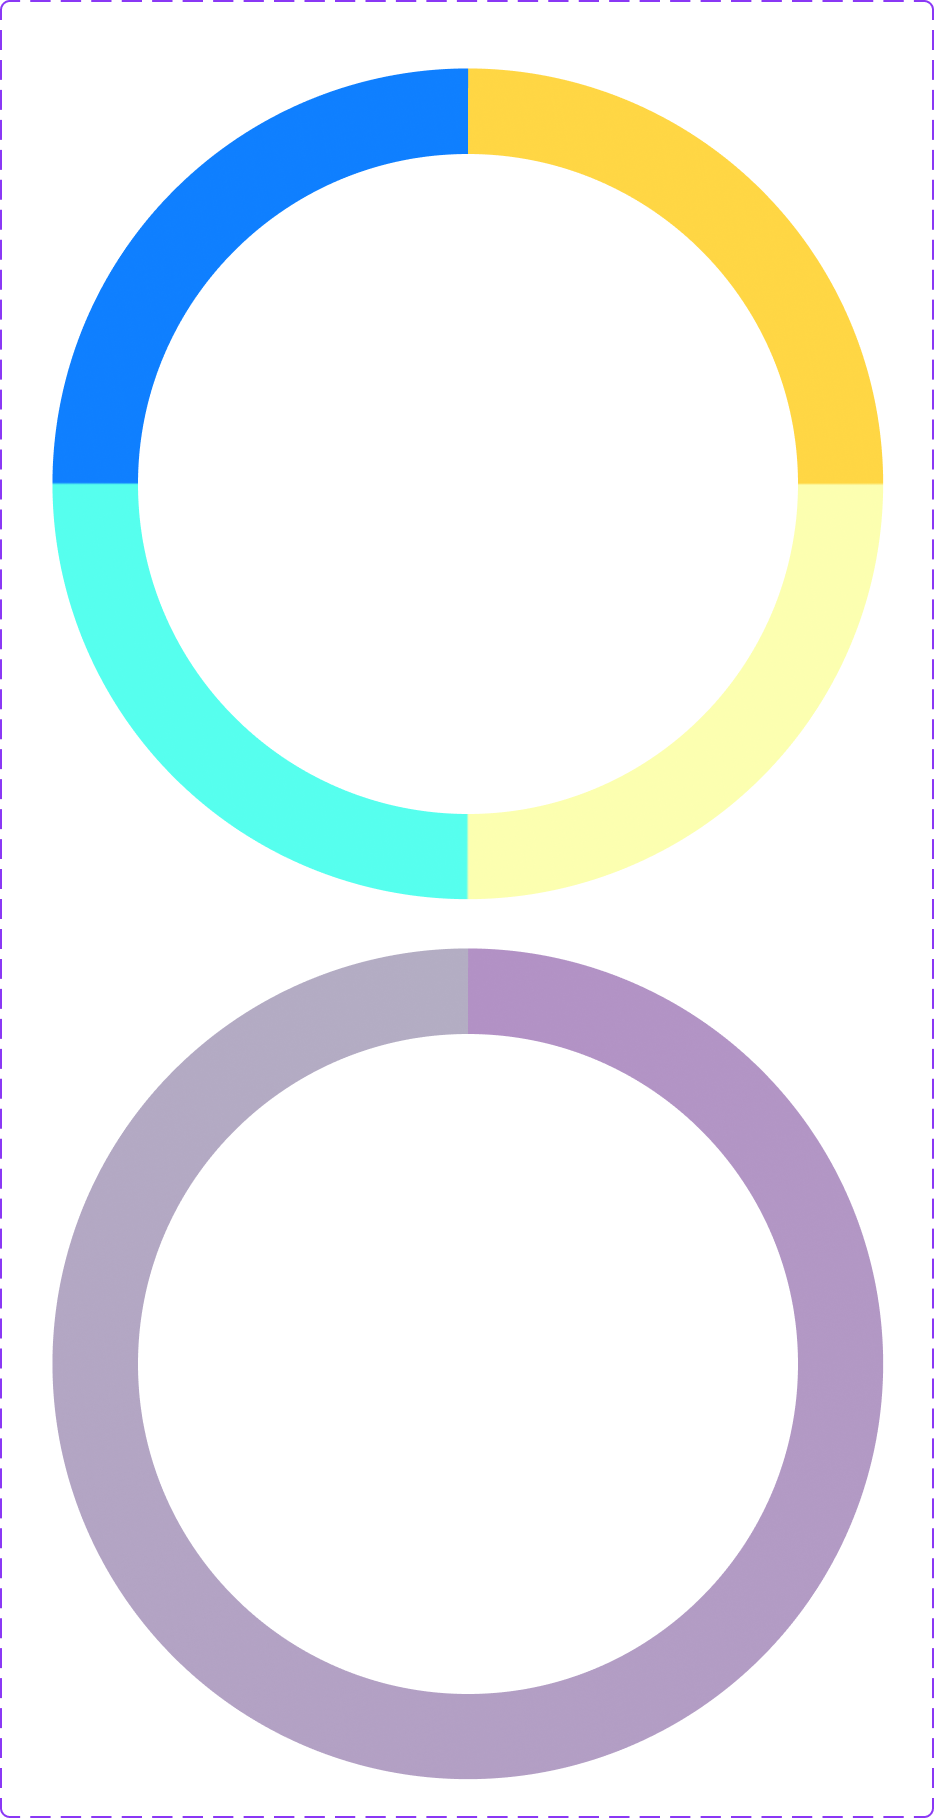
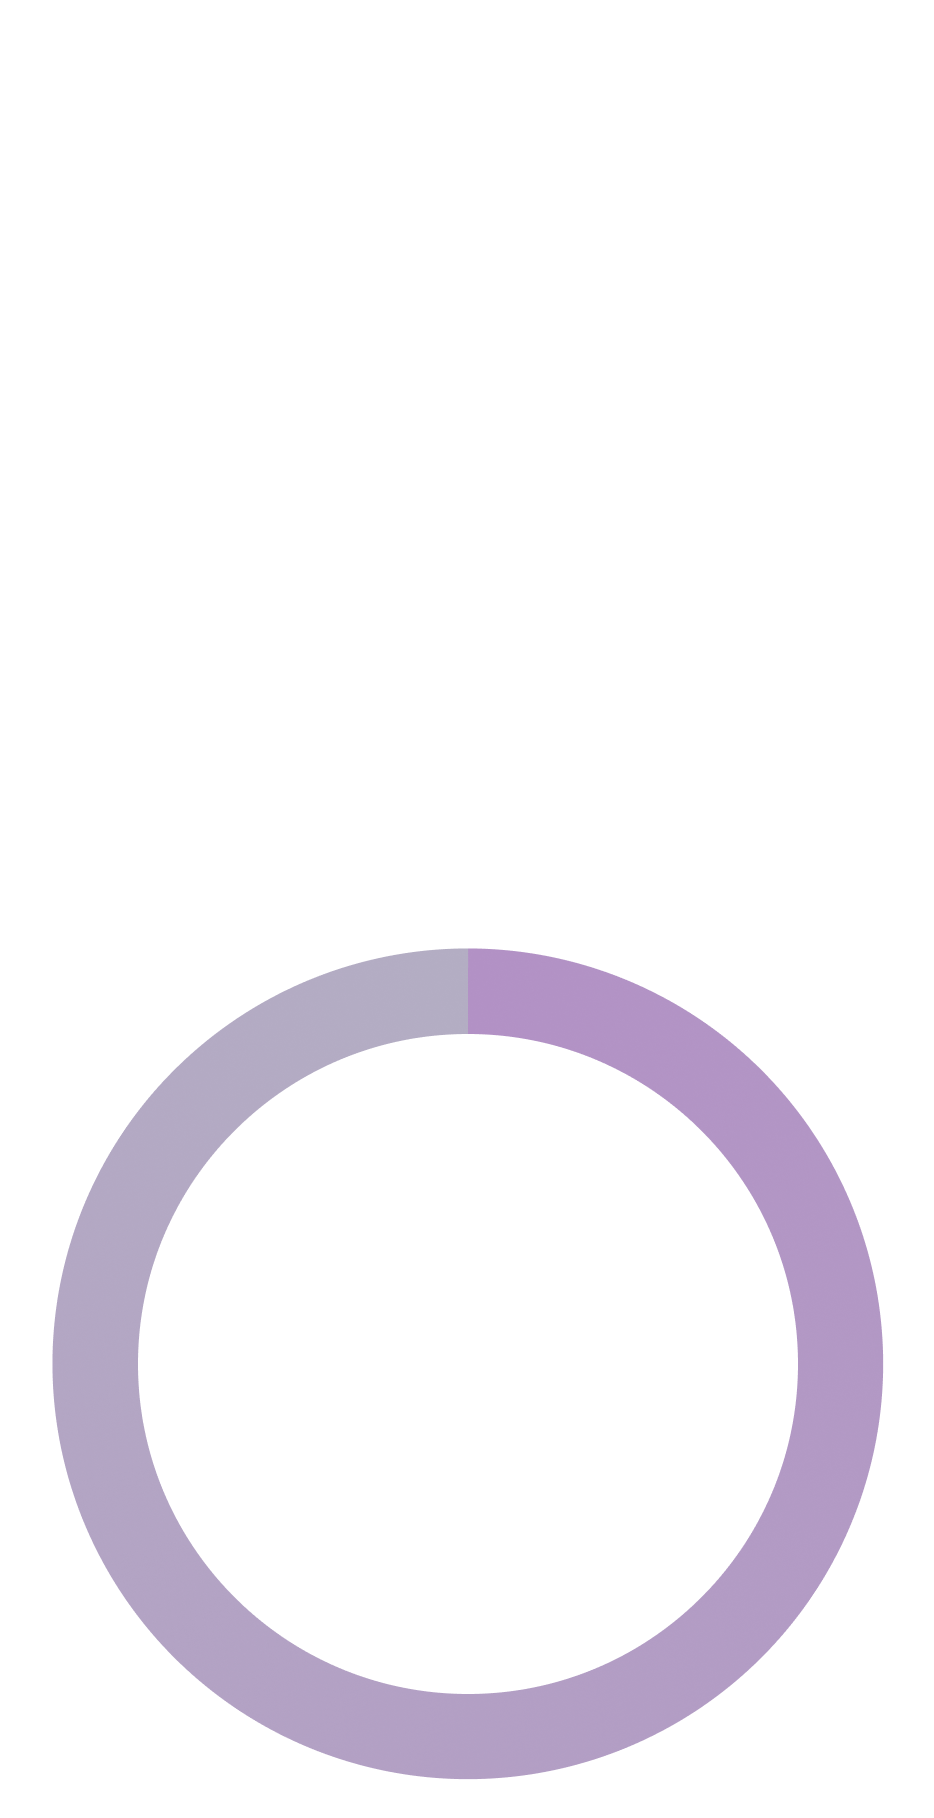
Vending Machine Fixes

Changed region(s): [[0.031, 0.0308, 0.9625, 0.4928], [0.9936, 0.0, 1.0, 1.0], [0.0, 0.9857, 0.031, 1.0]]

diff --git a/Geist Heist/Assets/Scripts/UI/Player HUD/Possessable Ability Icons/PossessableToolbar.cs b/Geist Heist/Assets/Scripts/UI/Player HUD/Possessable Ability Icons/PossessableToolbar.cs
@@ -21,6 +21,8 @@ public class PossessableToolbar : Singleton<PossessableToolbar>
     [SerializeField, Required] private RectTransform uniqueTextPossessableParent; //@TODO
 
     [Header("Cooldown Wheel")]
+    [SerializeField] private Gradient cooldownColors;
+    [SerializeField, Required] private Image cooldownTimerImage;
     [SerializeField, Required] private Slider cooldownSlider;
     [SerializeField, Required] private CanvasGroup cooldownGroup;
 
@@ -125,6 +127,8 @@ public class PossessableToolbar : Singleton<PossessableToolbar>
     public void SetCooldownTimerValue(float timeRemainingPercent)
     {
         cooldownSlider.value = timeRemainingPercent;
+
+        cooldownTimerImage.color = cooldownColors.Evaluate(1-timeRemainingPercent);
     }
     public void ShowCooldownTimer()
     {
